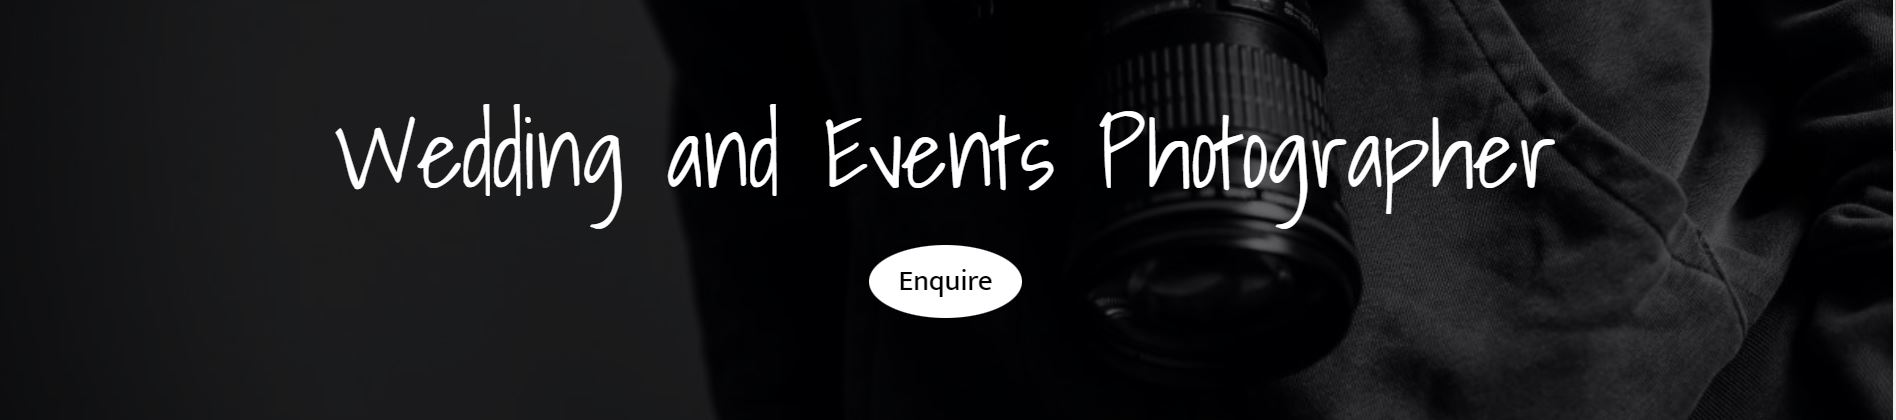
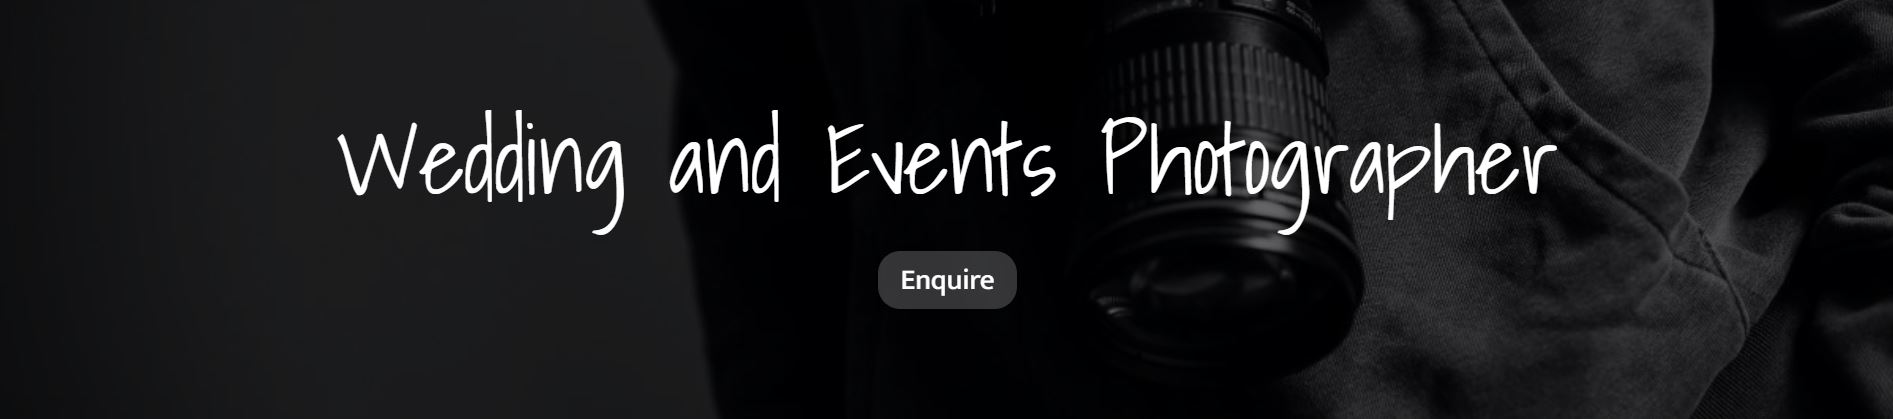
Added wireframes to readme.md and responsivity tetsing to testing.md

diff --git a/thank-you.html b/thank-you.html
@@ -20,7 +20,7 @@
 		<link rel="stylesheet" href="assets/css/style.css" type="text/css" >
 	</head>
 
-	<body>
+	<body class="body-color">
 		<header>
 
 			<!-- navbar -->
@@ -69,7 +69,7 @@
 
 		<!-- thank you message  -->
 		
-		<div class="container-fluid body-color">
+		<div class="container-fluid">
 			<h1 class="title-thank-you center-text handwriting">Thank you for your enquiry <i class="fa-regular fa-face-smile-beam"></i> !</h1>
 			<h3 class="center-text uppercase">I will get back to you as soon as possible</h3>
 			<p class="p-thank-you center-text">Direct back to <a class="link-home bold-text" href="index.html">home</a></p>

diff --git a/404.html b/404.html
@@ -20,7 +20,7 @@
 		<link rel="stylesheet" href="assets/css/style.css" type="text/css" >
 	</head>
 
-	<body>
+	<body class="body-color">
 		<header>
 
 			<!-- navbar -->
@@ -70,7 +70,7 @@
 
 		<!-- 404 message -->
 
-		<div class="container-fluid body-color">
+		<div class="container-fluid">
 			<h1 class="title-404 center-text">404.</h1>
 			<h3 class="center-text uppercase">Sorry the page you're looking for hasn't been found!</h3>
 			<p class="p-404 center-text">Direct back to <a class="link-home bold-text" href="index.html">home</a></p>

diff --git a/assets/css/style.css b/assets/css/style.css
@@ -140,7 +140,7 @@
 	font-size: 4rem;
 }
 
-@media screen and (max-width: 992px) {
+@media screen and (max-width: 768px) {
 	.overlay h1 {
 		font-size: 2.5rem;
 	}

diff --git a/README.md b/README.md
@@ -1,8 +1,6 @@
 # Golden Ape Visual Media
 
-Golden Ape Visual Media is a photographer portfolio inspired by a friend who is beginning a sports and wedding photography business. The target audience is women and men over the age of 18 who are either getting married or are athletes and want simple photos that stand out and tell a story.
-
-The intent of the website is to showcase the photographer's work and provide an easy way to contact them.
+Golden Ape Visual Media is a the company name for a friend's photography business. The website is intended to showcase a portfolio of work to show their journey as a sports and wedding photography photographer. It is also intended to drive users to their social media and get in touch with the photgrapher.
 
 The site is live, the link to this is found [HERE](https://sarah2244-4.github.io/Project-1-goldenapevisualmedia/).
 
@@ -70,7 +68,12 @@ An existing user wants to be able to:
 
 ### Wireframes
 
-- 
+| Index Page | Gallery Page | Contact Page |
+| :---: | :---: | :---: |
+| [Mobile](assets/images/wireframes/index-mobile.jpg) | [Mobile](assets/images/wireframes/gallery-mobile.jpg) | [Mobile](assets/images/wireframes/contact-mobile.jpg) |
+| [Tablet](assets/images/wireframes/index-tablet.jpg) | [Tablet](assets/images/wireframes/gallery-tablet.jpg) |[Tablet](assets/images/wireframes/contact-tablet.jpg)|
+| [Desktop](assets/images/wireframes/index-desktop.jpg) | [Desktop](assets/images/wireframes/gallery-desktop.jpg) | [Desktop](assets/images/wireframes/contact-desktop.jpg) |
+
 
 ### Colour Scheme
 
@@ -84,14 +87,18 @@ An existing user wants to be able to:
 
 ### Imagery
 
-- The logo is an existing friend's logo. 
+- The logo is a friend's existing business' existing logo. It was used with permission. 
 - All other imagery used on the webiste is from a stock webiste which is referenced in the [credits](#credits "Credits") section. 
 - Images were chosen to give a pop of colour against the greyscale theme of the website. 
 - There is one black and white image to make it stand out as a wedding image rather than a sports event image.
 
 ### Effects 
 
-- Links are animated to change colour when a mouse hovers over them so users know they can click them. 
+- Links in the navigation bar and footer are animated to change colour when a mouse hovers over them so users know they can click them. 
+
+![Navigation links hover effect](assets/images/nav-link-hover.JPG)
+
+![Social media icons hover effect](assets/images/social-hover.JPG)
 
 ### Design choices
 
@@ -100,6 +107,7 @@ An existing user wants to be able to:
 - I decided the gold was needed to encorporate the company's logo colours into the site.
 - It was important the gallery images could be viewed clearly as it's a main feature, which is why I made the decision to enlarge them in a modal.
 - The design is minimilistic to make it clear how to navigate the site and to put emphasis on the images to allow the pictures to speak for themselves.
+- The hero image was maintained on every page as the title for each page. The enquire button on the hero image stayed on the contact page, as when clicked the page would re-load to focus lower down on the form. 
 
 ## Features
 
@@ -108,8 +116,8 @@ An existing user wants to be able to:
 #### Navigation Bar
 
 ![Navigation bar](assets/images/navigation-bar.JPG)
+
 ![Navigation bar for small screens](assets/images/navigation-bar-small-screens.JPG)
-![Navigation links hover effect](assets/images/nav-link-hover.JPG)
 
 - The logo and company name is on the left and the links are clear and easy to find on the right hand side.
 - This is the same across all pages for consistency. 
@@ -124,6 +132,7 @@ An existing user wants to be able to:
 
 - Beneath the navigation bar there is a hero image, which is the same across all main pages for consistency. 
 - It features an enquiry button to focus users attention to the fact that there is a way to enquire more and encourage more users to fill in the contact form. 
+- The enquire button was styled so the background was white to stand out from the background whilst also maintaining white text to fit in with the text in the navigation bar. 
 - The hero image doesn't show on the 404 page as it took away from the 404 error message, and the main aim of this page is to display the error and direct them back to an existing page. 
 - It also doesn't appear on the thank you page as a form has already been submitted by the user so the thank you message is more important than the enquiry button at this point. 
 
@@ -135,7 +144,7 @@ An existing user wants to be able to:
 - The about me text wraps around the image and this is responsive to all screen sizes. 
 - Small screen sizes would only have a very thin column of text next to the image, so the image appears above the text to make it more readable. 
 
-### Image Carousel 
+#### Image Carousel 
 
 ![Image carousel](assets/images/image-carousel.JPG)
 
@@ -146,7 +155,6 @@ An existing user wants to be able to:
 #### Footer
 
 ![Footer](assets/images/footer.JPG)
-![Social media icons hover effect](assets/images/social-hover.JPG)
 
 - The footer provides important contact information for users and clear social media links.
 - The background is a light gold to separate it from the body so that it subtly stands out. 
@@ -217,12 +225,33 @@ HTML5 and CSS3 used.
 
 ## Deployment
 
-The site was deployed to GitHub pages. To do this the steps followed were:
+### GitHub Pages
+
+To deploy the site to GitHub pages the steps followed were:
 - Log into GitHub account
 - Open the correct repository 
 - In the GitHub repository, go to 'Settings'
-- From the source section drop-down menu, select the Master Branch
-- The live link can be found [HERE](https://sarah2244-4.github.io/Project-1-goldenapevisualmedia/)
+- In the settings menu, go to 'Pages' under the subheading 'Code and automation'
+- Under the heading 'Source', select 'Deploy from a branch' from the dropdown menu
+- Under the heading 'Branch', ensure 'main' is selected from the dropdown and the folder selected is '/(root)'
+- Click 'Save' and the website will be live in a few minutes
+- The live link can be found [here](https://sarah2244-4.github.io/Project-1-goldenapevisualmedia/)
+
+### Local Source Files
+
+To deploy the website using source files follow the steps:
+- Open the GitHub repository [here](https://github.com/sarah2244-4/Project-1-goldenapevisualmedia)
+- In the repository click on the green '<> Code' dropdown
+- Select 'Download ZIP'
+- Navigate to the Zip file in your file explorer and open it
+- Right click on the 'index.html' file and open with the chosen browser
+
+To clone the repsoitory: 
+- Open the GitHub repository [here](https://github.com/sarah2244-4/Project-1-goldenapevisualmedia)
+- In the repository click on the green '<> Code' dropdow
+- Copy the HTTPS URL link
+- Open the terminal on the computer's IDE
+- Type in `git clone` followed by the copied URL 
 
 ## Credits
 

diff --git a/testing.md b/testing.md
@@ -6,15 +6,36 @@
 - Browser Compatibility
 - User Stories
 
-Throughout development I used Chrome Dev Tools to check responsivity of all the elements. 
-
 ## Responsivity 
+
+Responsivity was testing using chrome developer tools. 
+
+| Tests for all pages | iPhone SE | Pixel 5 | Samsung Galazy S8+ | iPad Air | Surface Pro 7 | Nest Hub | Desktop |
+| --- | :---: | :---: | :---: | :---: | :---: | :---: | :---: | 
+| Responsive | Yes | Yes | Yes | Yes | Yes | Yes | Yes |
+| Navbar toggle button | Yes | Yes | Yes | N/A | N/A | N/A | N/A |
+| Full Navbar | N/A | N/A | N/A | Yes | Yes | Yes | Yes |
+| Hero text fits on screen | Yes | Yes | Yes | Yes | Yes | Yes | Yes |
+| Links open correctly | Yes | Yes | Yes | Yes | Yes | Yes | Yes |
+| Form does not submit with invalid information | Yes | Yes | Yes | Yes | Yes | Yes | Yes |
+| Form submission works correctly | Yes | Yes | Yes | Yes | Yes | Yes | Yes |
+| All images are seen | Yes | Yes | Yes | Yes | Yes | Yes | Yes |
+| Good sizing of gallery images | Yes | Yes | Yes | Yes | Yes | Yes | Yes |
+| Contact form autofocuses | Yes | Yes | Yes | Yes | Yes | Yes | Yes |
+| All footer information appears on screen | Yes | Yes | Yes | Yes | Yes | Yes | Yes |
 
 ## Browser compatibility
 
+| Tests for all pages | Chrome | Firefox | Edge | Opera |
+| --- | :---: | :---: | :---: | :---: |
+| Loads as expected | Yes | 
+| Responsive | Yes | 
+
 ## User Stories
 
-### Bug
+### Bugs
+
+Below 284 px the navbar toggler moves below the logo. 
 
 ### Resolved bugs
 
